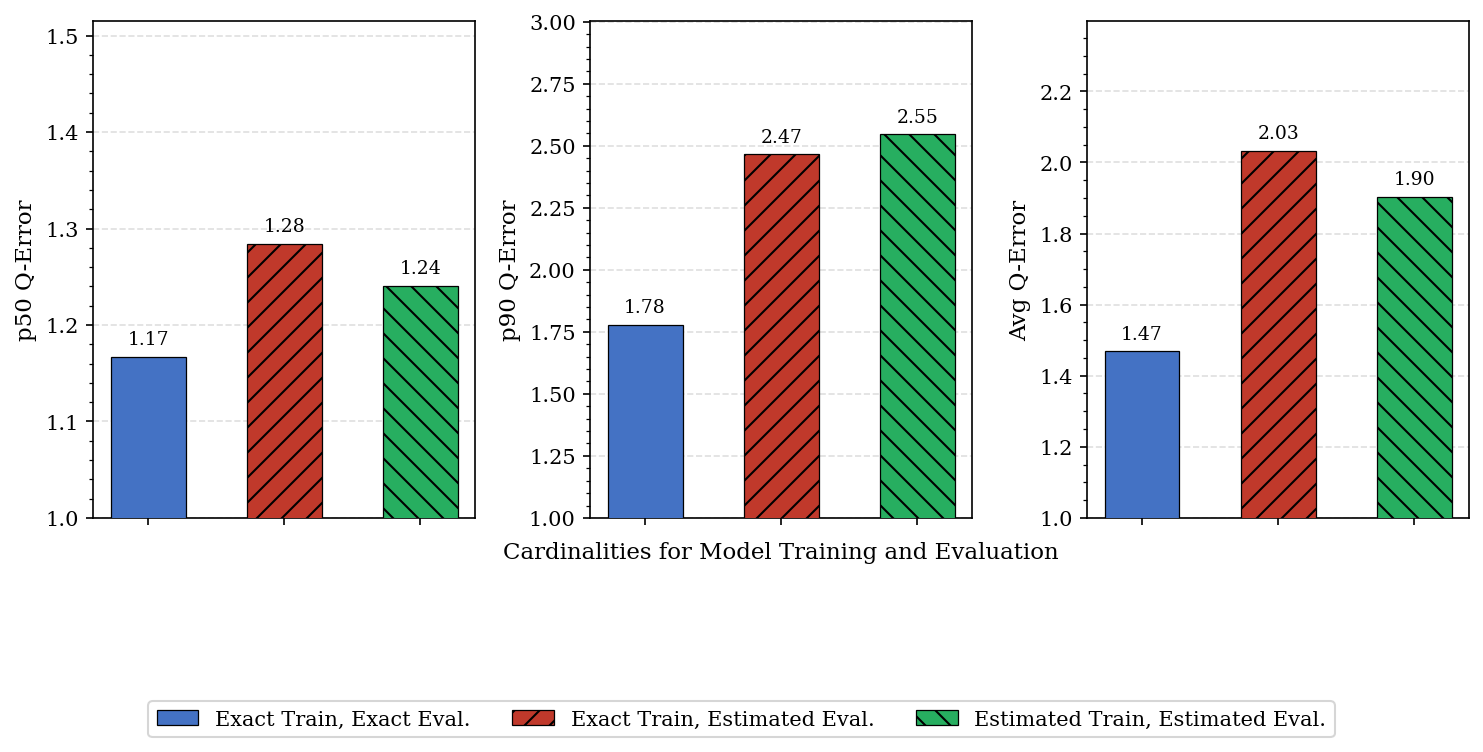
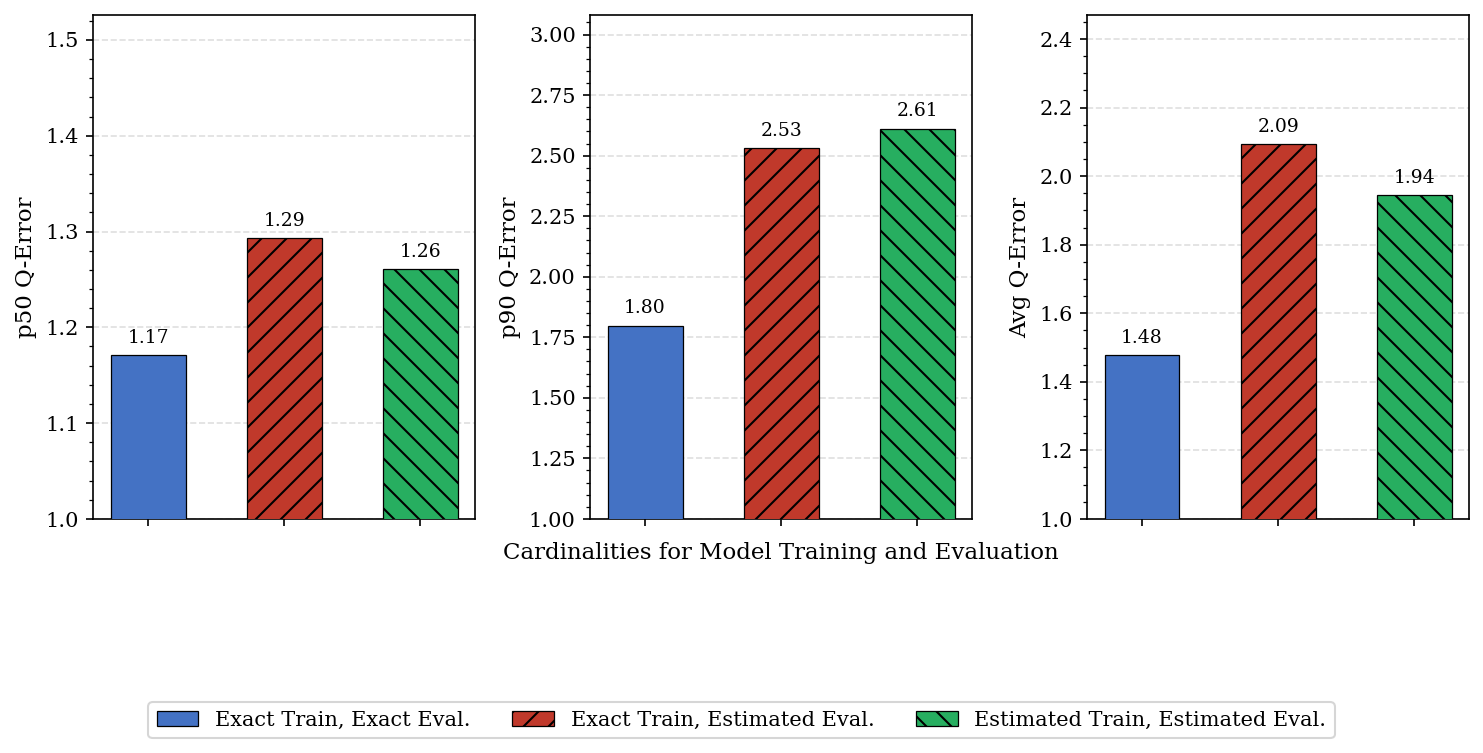
updated results

diff --git a/results/fig_query_pipeline_tuple/pipeline_gap.py b/results/fig_query_pipeline_tuple/pipeline_gap.py
@@ -1,26 +1,22 @@
 """
 Show the gap between raw (before-correction) pipeline runtimes and the
-ground-truth plan_runtime for N zeroshot PostgreSQL plans.
-
-Usage (from T3 project root, inside conda t3 env):
-  python scripts/pipeline_gap.py
-  python scripts/pipeline_gap.py --file /path/to/parsed_plans/tpc_h/workload_100k_s1_c8220.json --n 5
-  python scripts/pipeline_gap.py --file /path/to/parsed_plans/tpc_h/workload_100k_s1_c8220.json --plan-idx 3 --n 3
+ground-truth plan_runtime for a single zeroshot PostgreSQL plan.
 """
 
 from __future__ import annotations
 
-import argparse
+import json
 import sys
 from pathlib import Path
 
-_repo = Path(__file__).resolve().parent.parent
+_repo = Path(__file__).resolve().parents[2]
 sys.path.insert(0, str(_repo))
 
 from src.zeroshot.zeroshot_to_t3 import load_zeroshot_json, zeroshot_plan_to_t3
 from src.zeroshot.training_zeroshot_tpch_holdout import load_benchmarked_queries_from_zeroshot
 
-DEFAULT_FILE = "/Users/namtran/Downloads/zero-shot-data/runs/parsed_plans/tpc_h/workload_100k_s1_c8220.json"
+FILE = Path("/Users/namtran/Downloads/zero-shot-data/runs/parsed_plans/tpc_h/workload_100k_s1_c8220.json")
+PLAN_IDX = 2
 
 
 def pipeline_gap(json_path: Path, plan_idx: int, bqs_by_name: dict) -> None:
@@ -39,17 +35,13 @@ def pipeline_gap(json_path: Path, plan_idx: int, bqs_by_name: dict) -> None:
     converted = zeroshot_plan_to_t3(zs_plan, use_actual_card=True)
     pipes_raw = converted["analyzePlanPipelines"]
 
-    # Resolve BenchmarkedQuery for operator names
     name = f"{json_path.stem}_{plan_idx}" if len(plans) > 1 else json_path.stem
     bq = bqs_by_name.get(name)
     plan_pipelines = bq.query_plan.pipelines if bq else None
 
-    # Raw times (pre-correction)
     all_starts = [p["start"] for p in pipes_raw]
     all_stops  = [p["stop"]  for p in pipes_raw]
-    min_start  = min(all_starts)
-    max_stop   = max(all_stops)
-    analyze_plan_runtime_s = (max_stop - min_start) / 1_000_000
+    analyze_plan_runtime_s = (max(all_stops) - min(all_starts)) / 1_000_000
 
     raw_times = []
     for p in pipes_raw:
@@ -63,10 +55,12 @@ def pipeline_gap(json_path: Path, plan_idx: int, bqs_by_name: dict) -> None:
     gap_pct    = gap_s / plan_runtime_s * 100 if plan_runtime_s > 0 else float("nan")
     zero_pipes = sum(1 for r in raw_times if r == 0)
 
-    # ── Print ─────────────────────────────────────────────────────────────────
     print(f"\n{'='*82}")
     print(f"  {json_path.name}  [plan index {plan_idx}]")
     print(f"{'='*82}")
+    print("\n── JSON plan ──")
+    print(json.dumps(zs_plan, indent=2))
+    print()
     print(f"  plan_runtime (ground truth):        {plan_runtime_s:.6f} s")
     print(f"  analyze_plan_runtime (recon. span): {analyze_plan_runtime_s:.6f} s")
     print()
@@ -83,8 +77,7 @@ def pipeline_gap(json_path: Path, plan_idx: int, bqs_by_name: dict) -> None:
             ops = ", ".join(dict.fromkeys(ep.operator.operator_name for ep in plan_pipelines[i].operators))
         else:
             ops = str(p_raw["operators"])
-        ops = ops[:32]
-        print(f"  P{i:<4}  {ops:<32}  {p_raw['start']:>11.0f}  {p_raw['stop']:>11.0f}  {span:>9.0f}  {raw:>10.6f}  {corrected:>13.6f}")
+        print(f"  P{i:<4}  {ops[:32]:<32}  {p_raw['start']:>11.0f}  {p_raw['stop']:>11.0f}  {span:>9.0f}  {raw:>10.6f}  {corrected:>13.6f}")
 
     print(sep)
     print(f"  {'SUM':<5}  {'':32}  {'':>11}  {'':>11}  {'':>9}  {raw_sum:>10.6f}  {plan_runtime_s:>13.6f}")
@@ -95,32 +88,14 @@ def pipeline_gap(json_path: Path, plan_idx: int, bqs_by_name: dict) -> None:
           + ("  ← sub-ms nodes rounded to 0" if zero_pipes else ""))
 
 
-def main() -> None:
-    parser = argparse.ArgumentParser(
-        description="Show pre-correction pipeline runtime gap for N zeroshot plans."
-    )
-    parser.add_argument("--file", type=Path, default=Path(DEFAULT_FILE),
-                        help=f"Path to a parsed_plans JSON file (default: {DEFAULT_FILE})")
-    parser.add_argument("--plan-idx", type=int, default=0,
-                        help="Starting plan index within the file (default: 0)")
-    parser.add_argument("--n", type=int, default=5,
-                        help="Number of consecutive plans to show (default: 5)")
-    args = parser.parse_args()
-
-    if not args.file.is_file():
-        print(f"Error: file not found: {args.file}")
+if __name__ == "__main__":
+    if not FILE.is_file():
+        print(f"Error: file not found: {FILE}")
         sys.exit(1)
 
-    end_idx = args.plan_idx + args.n
-    print(f"\nLoading plans {args.plan_idx}–{end_idx - 1} from {args.file.name} ...")
-    bqs = load_benchmarked_queries_from_zeroshot([args.file], use_actual_card=True)
+    print(f"\nLoading plan {PLAN_IDX} from {FILE.name} ...")
+    bqs = load_benchmarked_queries_from_zeroshot([FILE], use_actual_card=True)
     bqs_by_name = {b.name: b for b in bqs}
 
-    for idx in range(args.plan_idx, end_idx):
-        pipeline_gap(args.file, idx, bqs_by_name)
-
+    pipeline_gap(FILE, PLAN_IDX, bqs_by_name)
     print()
-
-
-if __name__ == "__main__":
-    main()
